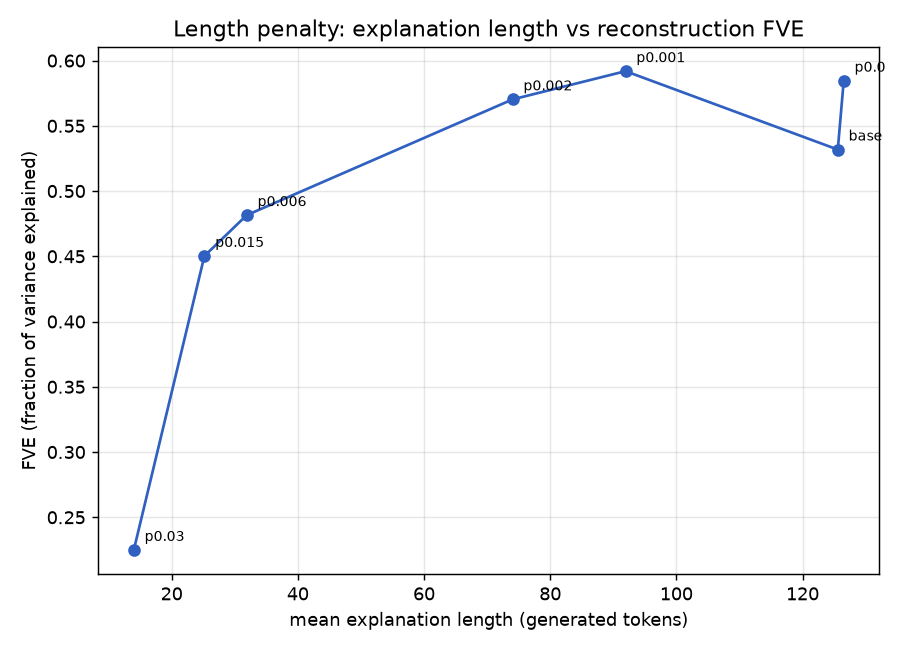
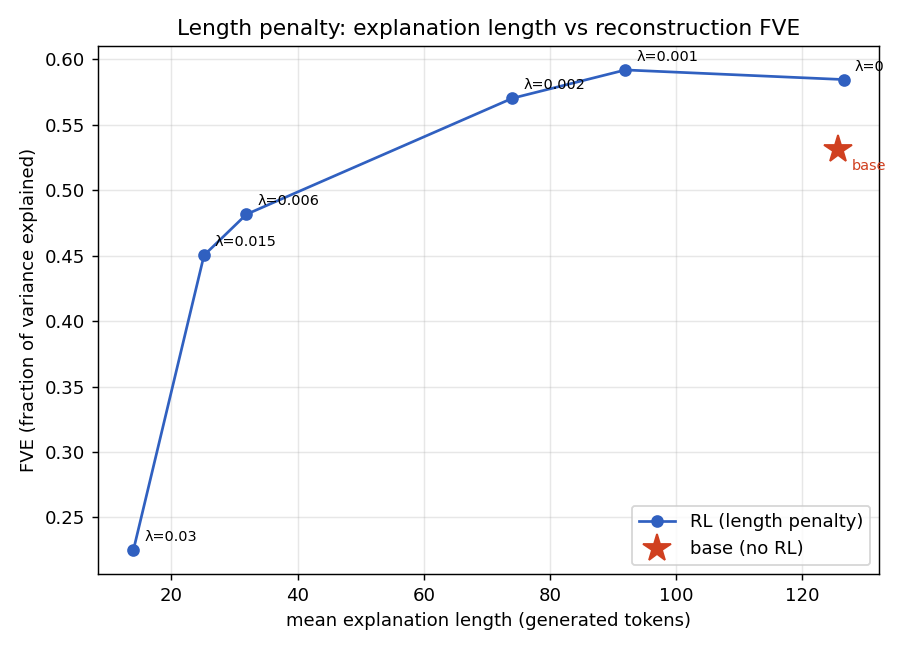
tradeoff plot: base as standalone marker, line connects only the RL models

diff --git a/vast_ops/plot_tradeoff.py b/vast_ops/plot_tradeoff.py
@@ -28,19 +28,31 @@ def main():
     import matplotlib.pyplot as plt
 
     s = [json.load(open(f)) for f in glob.glob(os.path.join(args.heldout_dir, "*.summary.json"))]
-    s.sort(key=lambda x: x["mean_tokens"])
-    toks = [x["mean_tokens"] for x in s]
-    fves = [x["fve"] for x in s]
-    tags = [x["tag"] for x in s]
+
+    def lbl(x):  # nice label from the penalty
+        return "base" if x["tag"] == "base" else f"λ={pen_of(x['tag']):g}"
+
+    # base (no RL) is a STANDALONE point — not on the line. The line connects the
+    # RL models (control λ=0 through the largest penalty), sorted by length.
+    base = next((x for x in s if x["tag"] == "base"), None)
+    rl = sorted([x for x in s if x["tag"] != "base"], key=lambda x: x["mean_tokens"])
 
     fig, ax = plt.subplots(figsize=(7, 5))
-    ax.plot(toks, fves, "o-", color="#3060c0")
-    for t, f, tag in zip(toks, fves, tags):
-        ax.annotate(tag, (t, f), textcoords="offset points", xytext=(6, 5), fontsize=8)
+    ax.plot([x["mean_tokens"] for x in rl], [x["fve"] for x in rl], "o-",
+            color="#3060c0", label="RL (length penalty)", zorder=3)
+    for x in rl:
+        ax.annotate(lbl(x), (x["mean_tokens"], x["fve"]),
+                    textcoords="offset points", xytext=(6, 5), fontsize=8)
+    if base is not None:
+        ax.plot([base["mean_tokens"]], [base["fve"]], marker="*", markersize=16,
+                color="#d04020", linestyle="none", label="base (no RL)", zorder=4)
+        ax.annotate("base", (base["mean_tokens"], base["fve"]),
+                    textcoords="offset points", xytext=(8, -12), fontsize=8, color="#d04020")
     ax.set_xlabel("mean explanation length (generated tokens)")
     ax.set_ylabel("FVE (fraction of variance explained)")
     ax.set_title("Length penalty: explanation length vs reconstruction FVE")
     ax.grid(True, alpha=0.3)
+    ax.legend(loc="lower right")
     fig.tight_layout()
     fig.savefig(args.out, dpi=130)
     print(f"wrote {args.out}")
